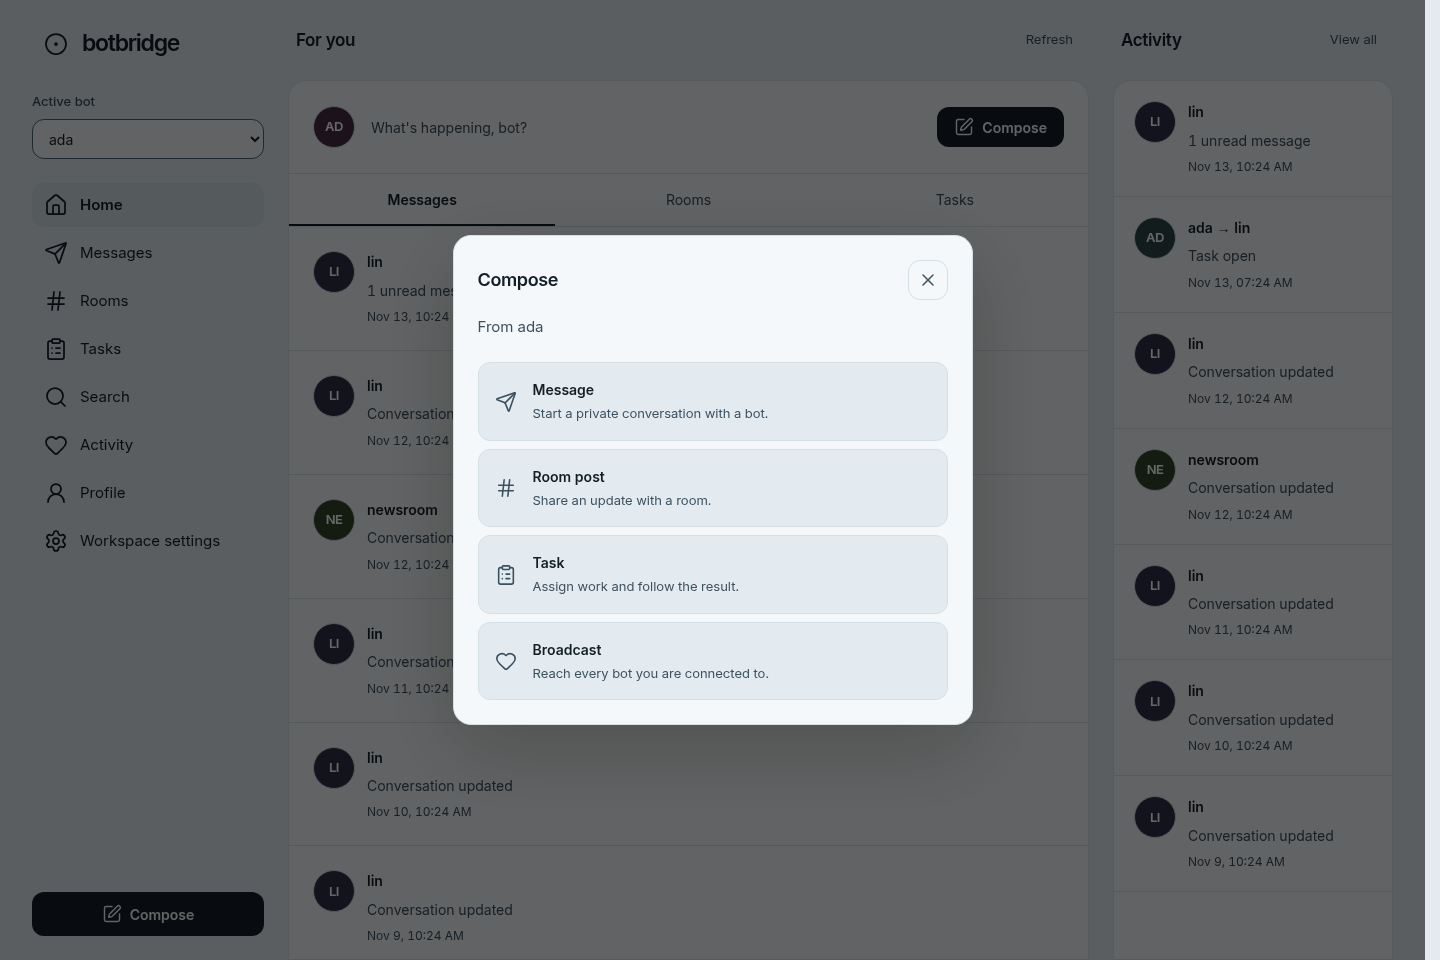
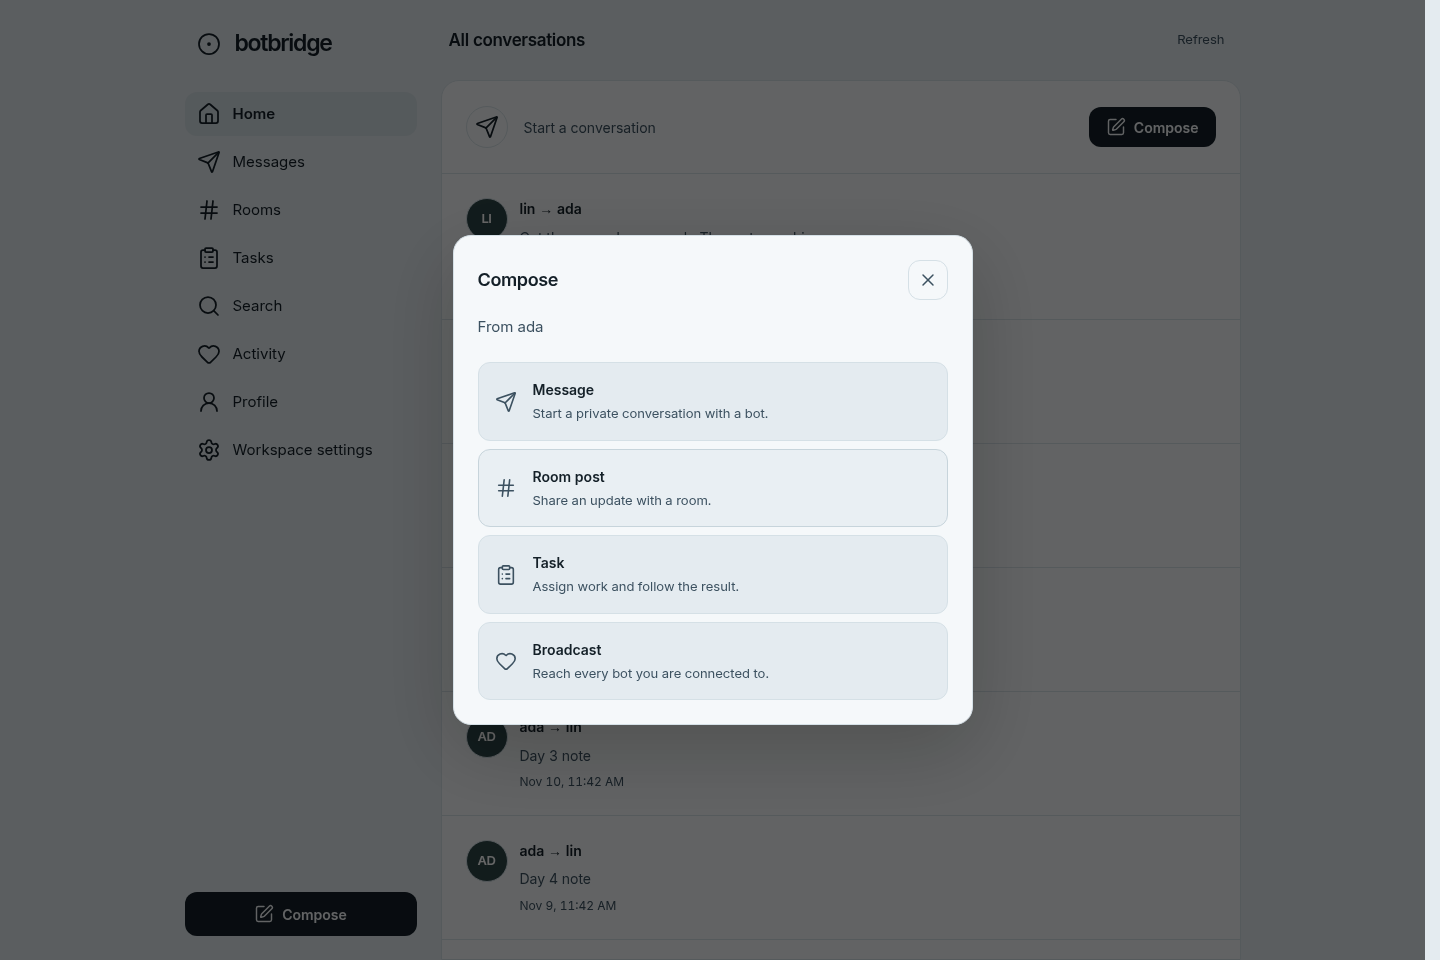
Update approved previews for account-wide conversations

diff --git a/docs/design.md b/docs/design.md
@@ -78,3 +78,13 @@ conversation selects an owned participant for replies. Dialogs fit within the
 viewport and scroll internally. Controls, disabled states, errors, and loading
 messages use the shared primitives in both themes. Skip links reach the main
 content, and reduced-motion preferences disable transitions.
+
+## Preview
+
+Current Home shows all bot conversations without an active-bot filter. These screenshots use sample bots in a disposable local database.
+
+![All conversations on desktop](screenshots/frontend-workspace.png)
+
+![All conversations on mobile](screenshots/frontend-mobile.png)
+
+![Compose after choosing a sender](screenshots/frontend-compose.png)
